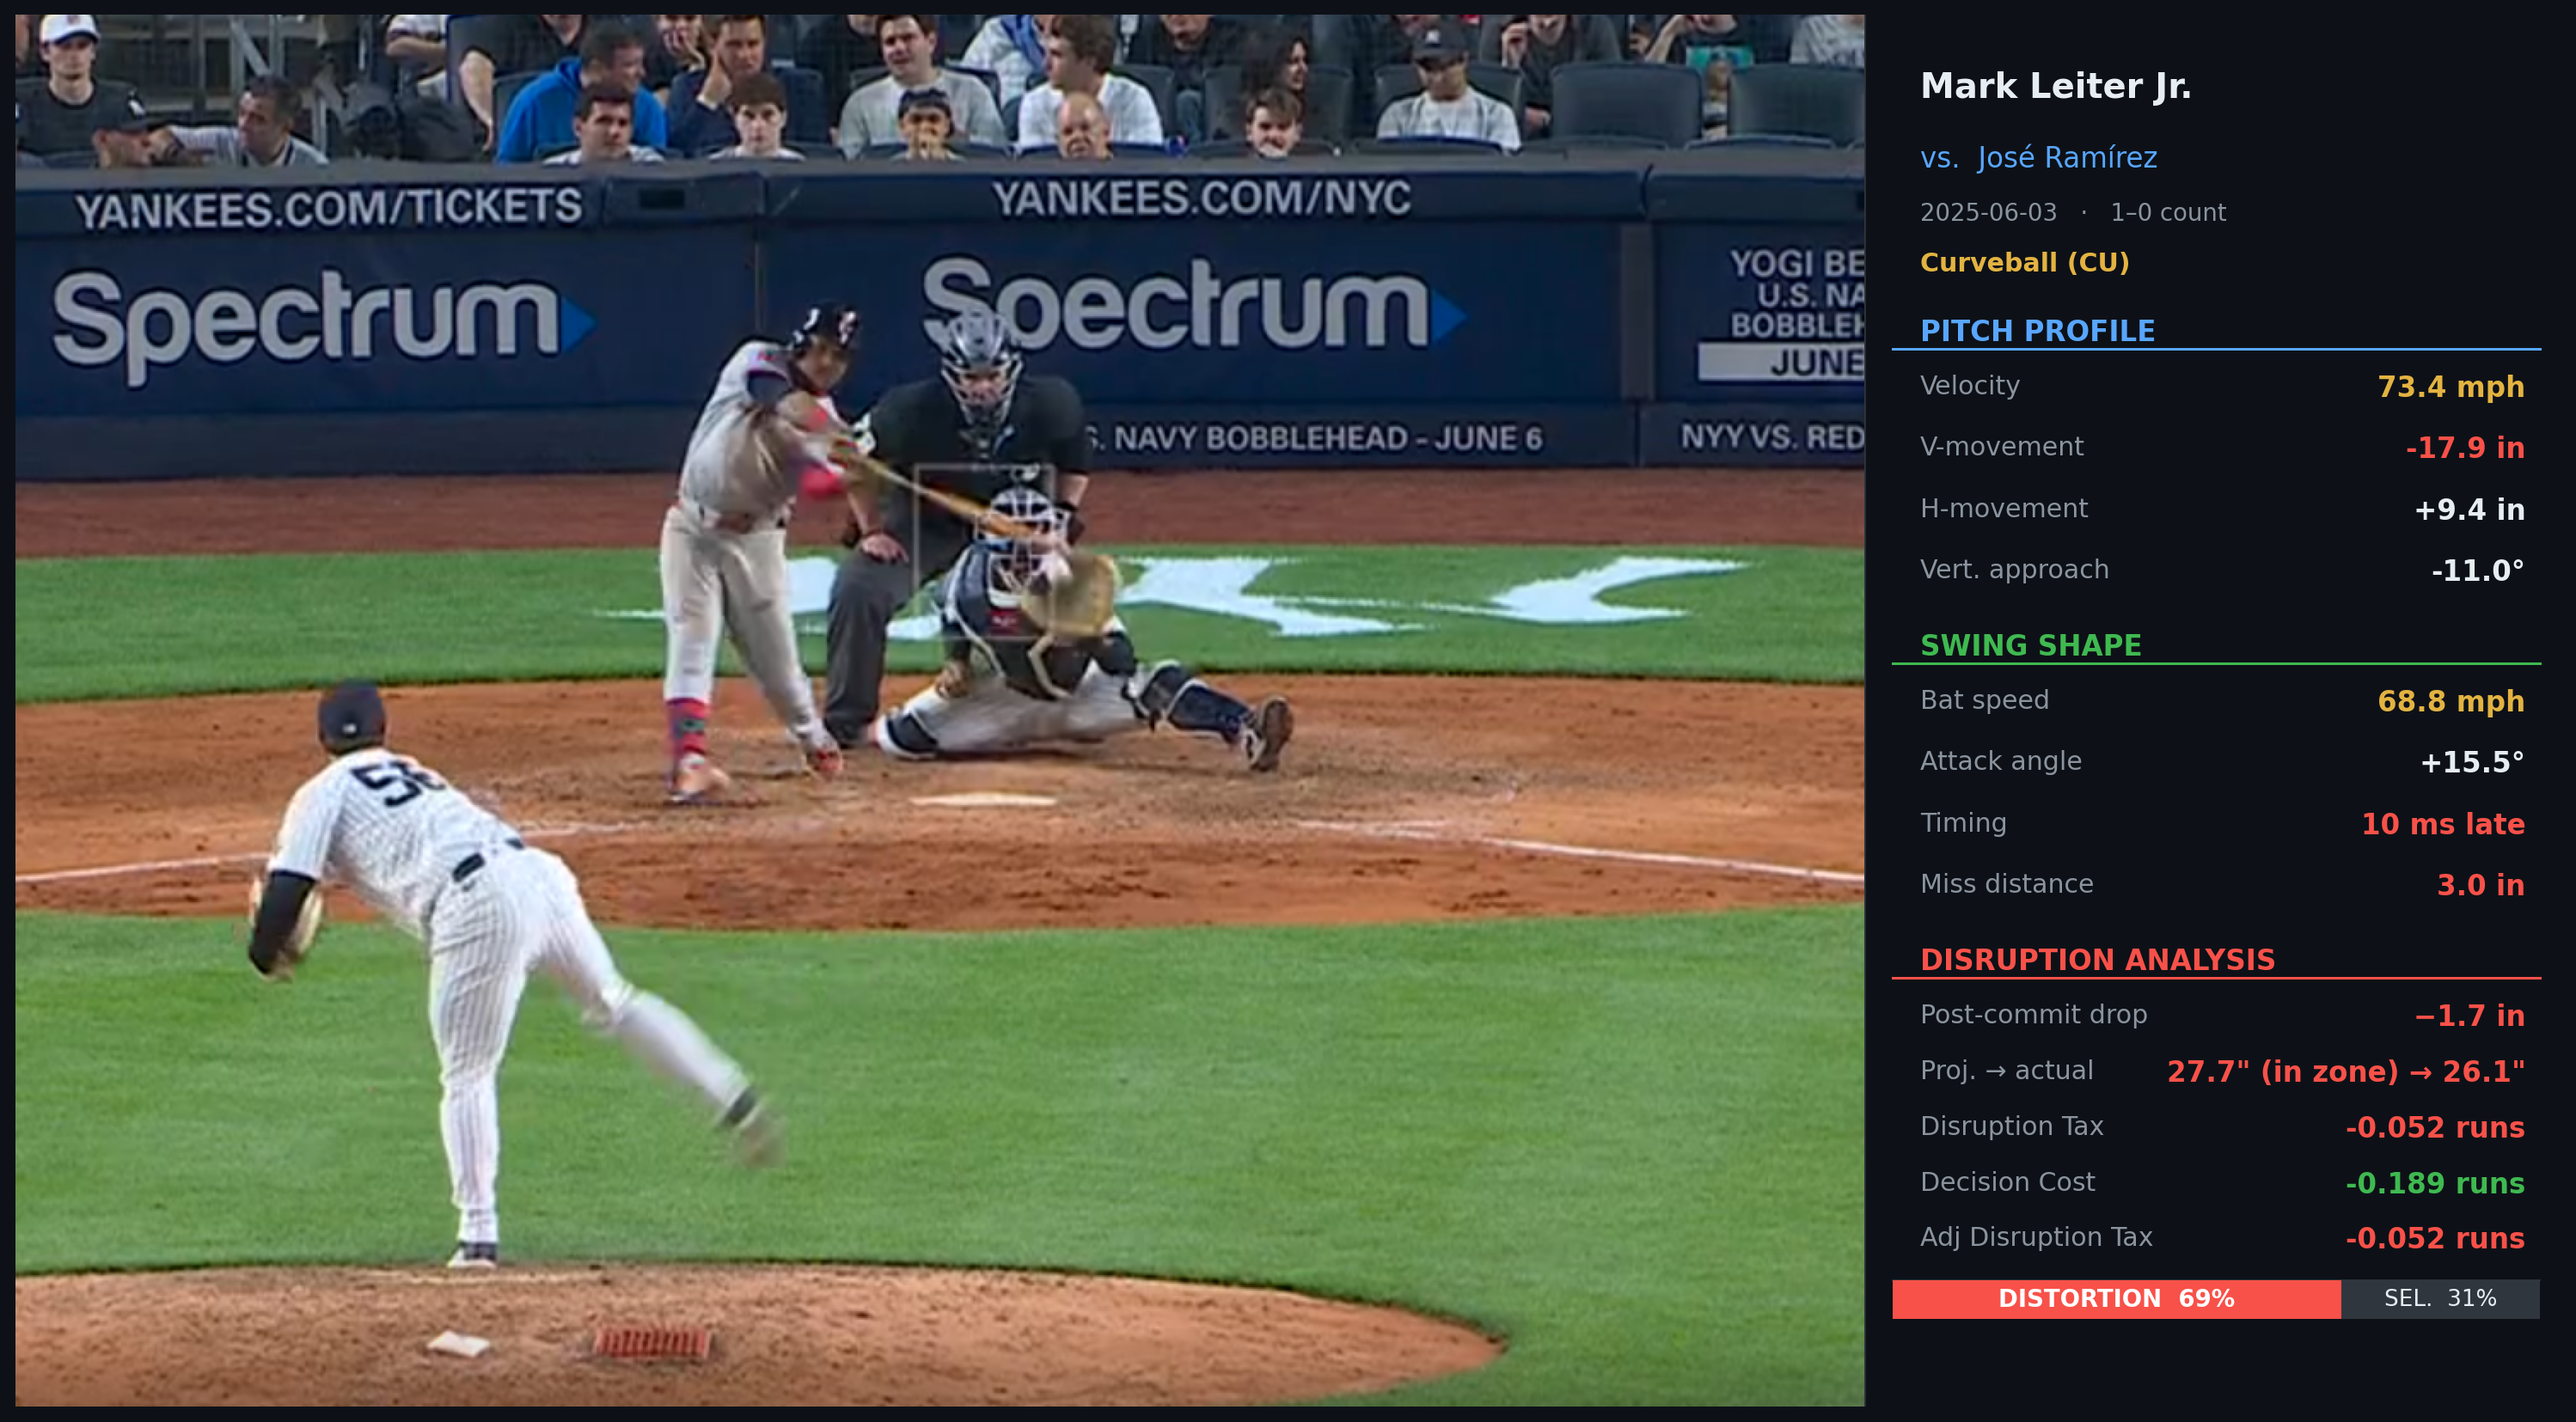
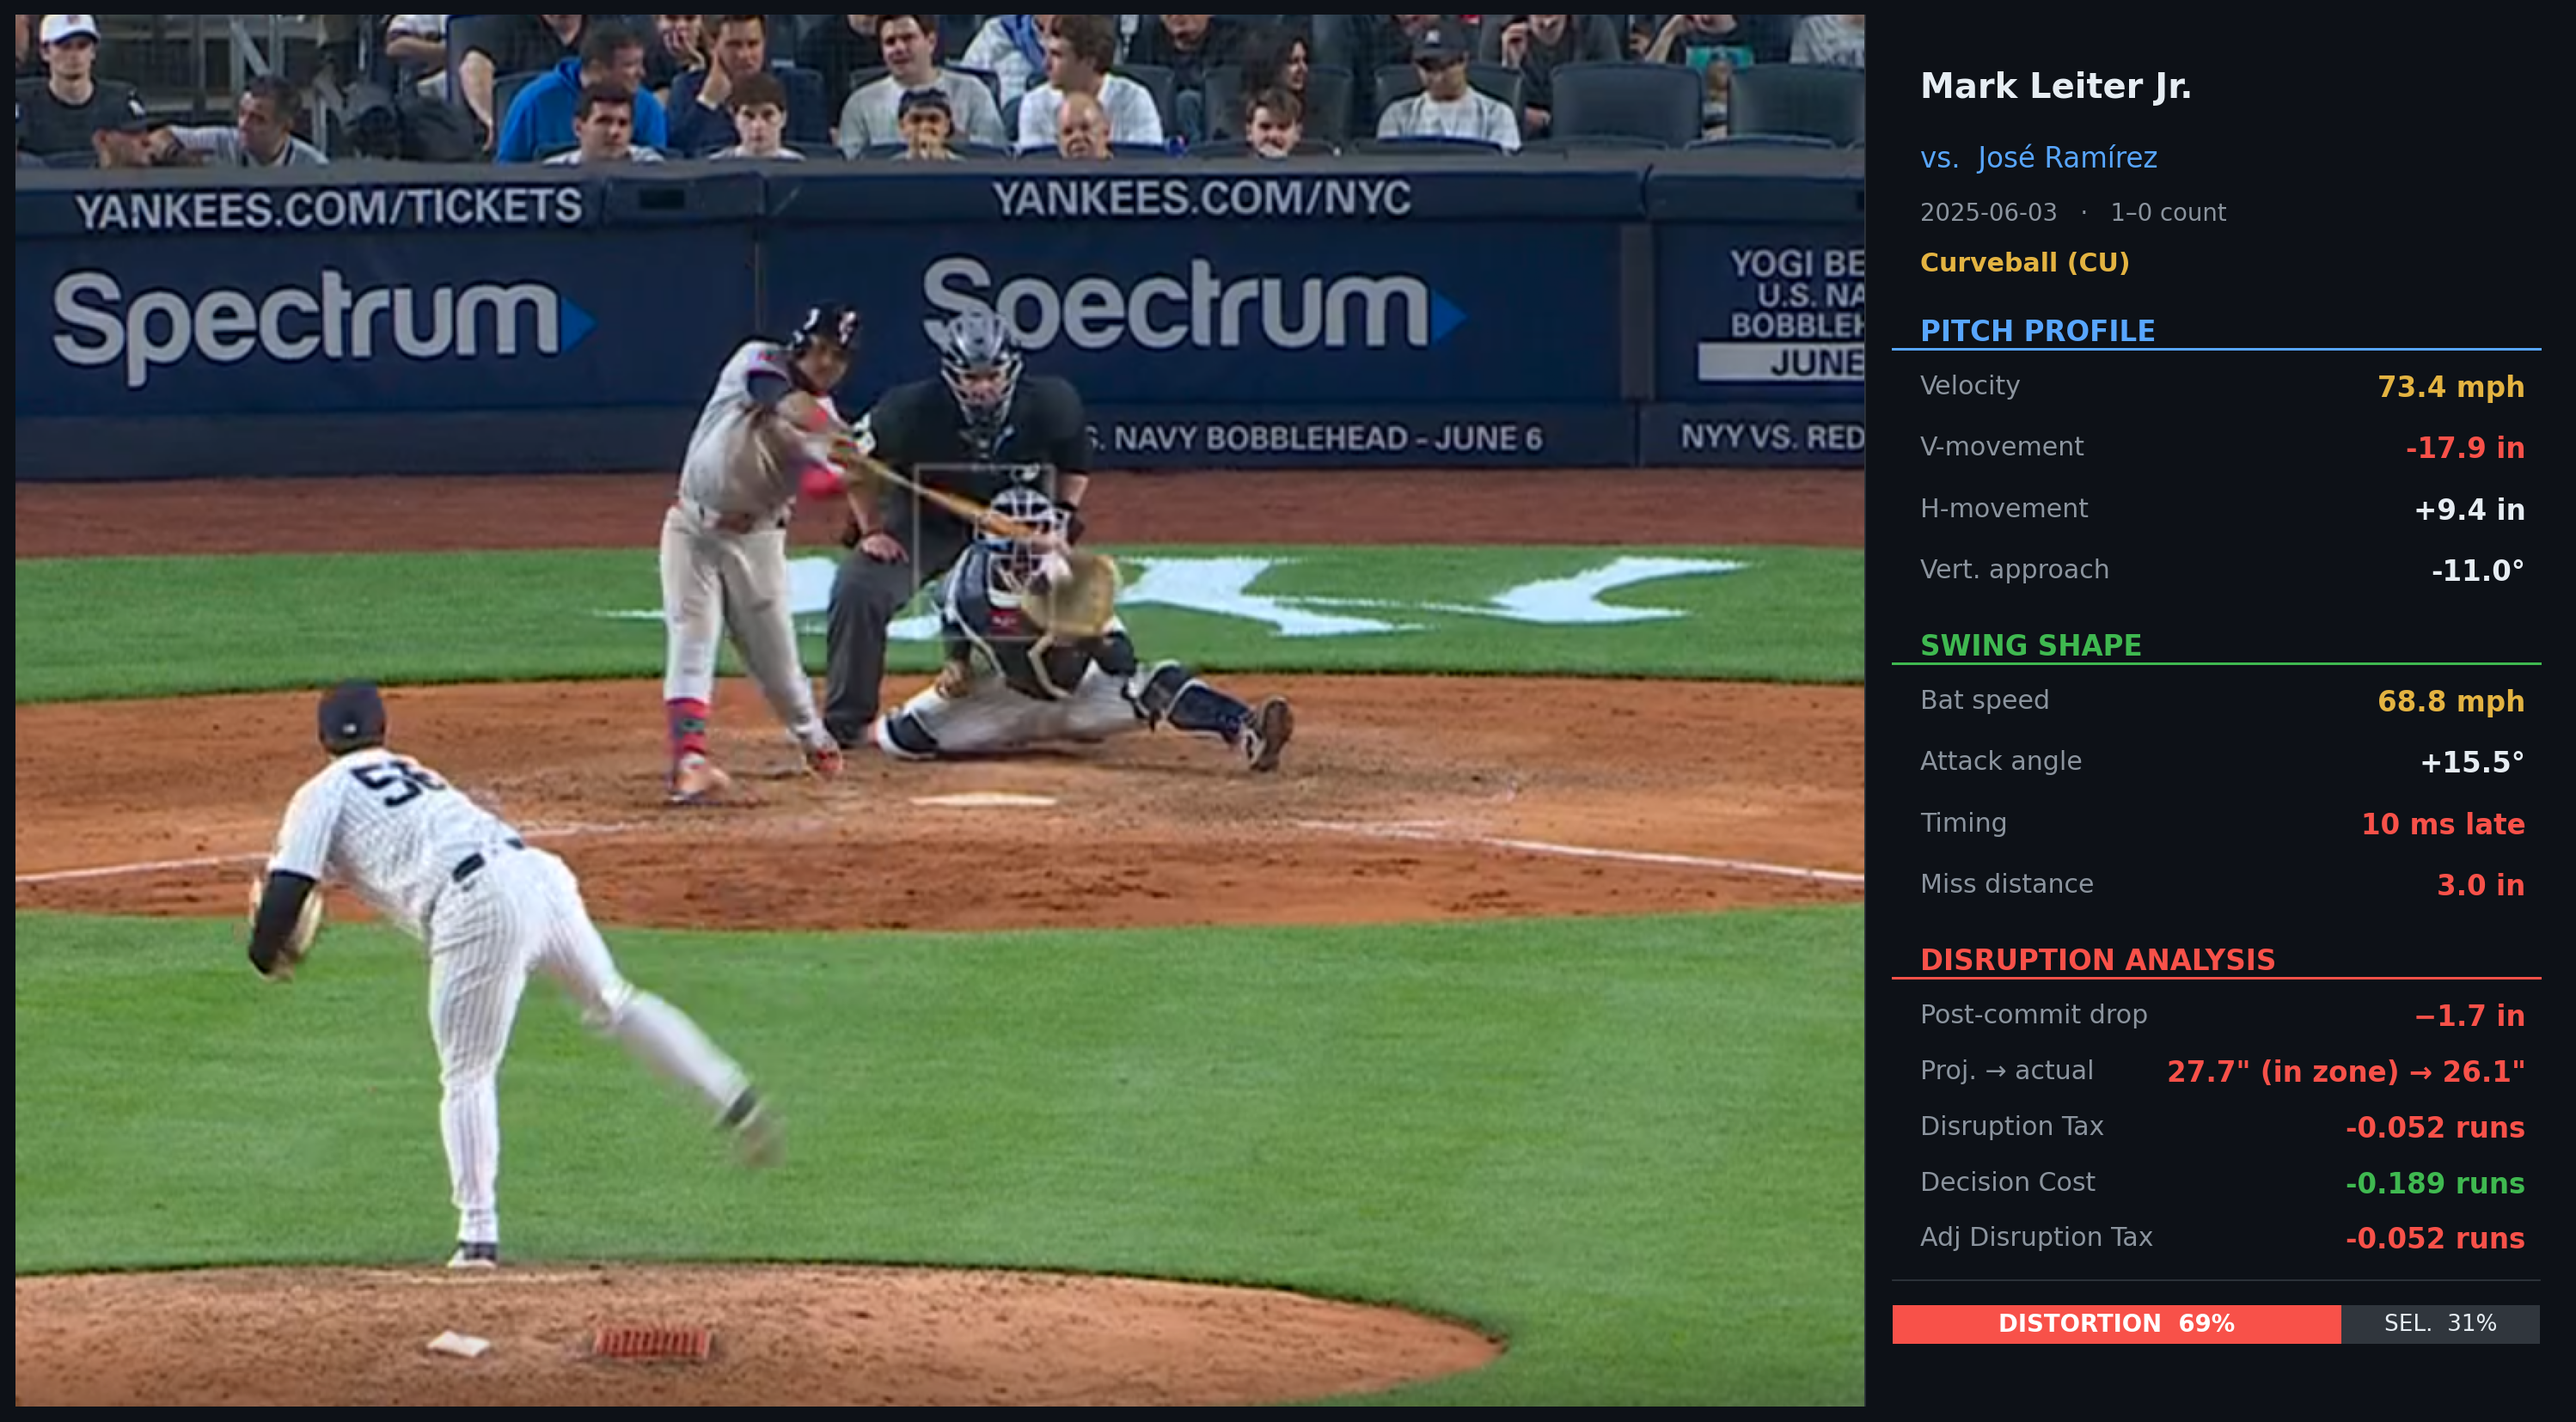
move distortion/selection bar slightly lower in kinematic diagrams

Changed region(s): [[0.7137, 0.8937, 0.993, 0.9553]]

diff --git a/src/viz/kinematic_diagram.py b/src/viz/kinematic_diagram.py
@@ -225,7 +225,7 @@ def make_broadcast_annotation(
 
     # distortion / selection bar
     hline(y + 0.006, BORDER); y -= 0.010
-    bx = xs - 0.04; bw = xe - xs + 0.06; bh = 0.028; by = y - 0.012
+    bx = xs - 0.04; bw = xe - xs + 0.06; bh = 0.028; by = y - 0.030
     dfrac    = max(data["distortion_share"] / 100, 0.0)
     sel_pct  = 100 - data["distortion_share"]
     dominant = dfrac >= 0.5
